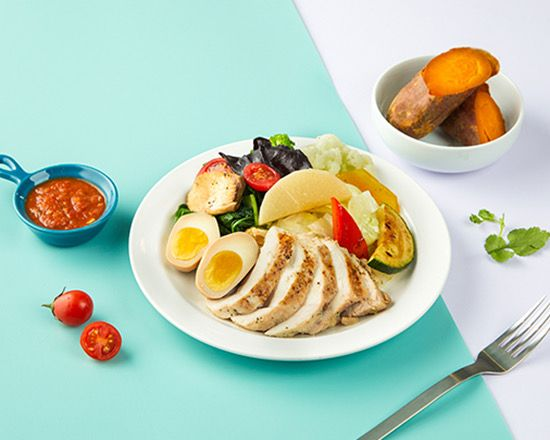
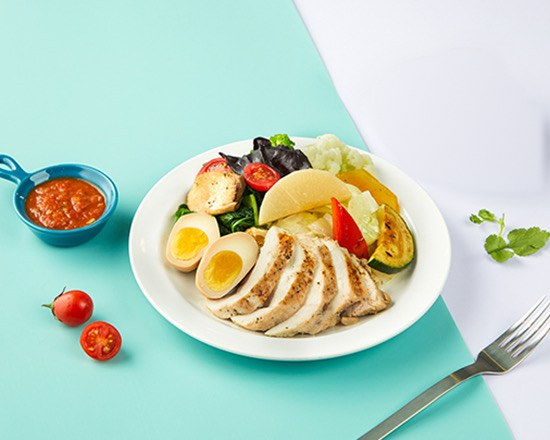
feat(web): 「拍照幫你算熱量」 headline; meal price floor $140
- Hero: 不用想吃什麼，拍照幫你算熱量; 外食 mock now shows a photo and the real 「來源：AI 照片估算」 label
- Dish captions confirmed by Jason (雞肉低碳); sweet potato bowl removed from its photo
- Three-day check is once per person (first subscription)
- SUBSCRIPTION_MEAL_LOW 170 → 140 (Jason): LINE estimates and the page share it; tests updated

Claude-Session: https://claude.ai/code/session_018VAJfck2b7PP6LxoD6zJJS

Changed region(s): [[0.68, 0.0886, 0.9891, 0.4136], [0.8655, 0.4727, 0.8964, 0.5023]]

diff --git a/plan_landing.py b/plan_landing.py
@@ -29,7 +29,7 @@ DISHES = (
     ("couscous.jpg", "北非小米沙拉（本週特餐）"),
     ("pork.jpg", "豬肉沙拉"),
     ("fish.jpg", "鱸魚食蔬"),
-    ("chicken.jpg", "雞肉食蔬"),
+    ("chicken.jpg", "雞肉低碳"),
 )
 
 
@@ -190,6 +190,10 @@ section { padding-block: 64px; }
 .act { text-align: right; font-size: 12px; color: var(--green); text-decoration: underline; }
 .ai-note { font-size: 10px; color: #6B5A2A; }
 
+.photo-msg { margin-left: auto; width: 62%; aspect-ratio: 4 / 3; border-radius: 16px; background: #D9C9A8;
+  display: grid; place-items: center; align-content: center; gap: 4px; color: var(--char); font-size: 13px; font-weight: 700; }
+.photo-msg span { font-size: 28px; }
+.est .src { font-size: 11px; color: #777777; }
 .est { background: var(--card); border-radius: 16px; padding: 12px 14px; font-size: 14px; color: var(--teal); max-width: 90%; display: grid; gap: 4px; }
 .est b { font-size: 16px; }
 .est .btn { margin-top: 6px; background: var(--green); color: var(--paper); border-radius: 10px; text-align: center; padding: 6px; font-weight: 700; }
@@ -295,10 +299,10 @@ _DASH_MOCK = """
 </div>"""
 
 _CHAT_MOCK = """
-<div class="chat" role="img" aria-label="外食記錄畫面示意：傳排骨飯，回覆估算的熱量與蛋白質">
-  <div class="bubble me">排骨飯</div>
-  <div class="est"><span>排骨飯（一般份量估算）</span><b>約 820 kcal・蛋白質 33 g</b>
-    <span>沒寫克數就用一般份量估，有寫克數會照你寫的算。</span><div class="btn">確認記錄</div></div>
+<div class="chat" role="img" aria-label="外食拍照記錄畫面示意：傳一張排骨飯照片，回覆估算的熱量與蛋白質">
+  <div class="photo-msg"><span>📷</span>排骨飯的照片</div>
+  <div class="est"><span>排骨飯</span><b>約 820 kcal・蛋白質 33 g</b>
+    <span class="src">來源：AI 照片估算</span><div class="btn">確認記錄</div></div>
 </div>"""
 
 
@@ -337,10 +341,10 @@ def render_page(*, status: dict, meal_low: int, meal_high: int, fee_tiers, perio
 <head>
 <meta charset="utf-8">
 <meta name="viewport" content="width=device-width, initial-scale=1">
-<title>一日樂食包月｜四週午晚餐幫你排好</title>
-<meta name="description" content="依你的目標排好四週午晚餐，每天在 LINE 點一下就記好，營養師看過你的三日飲食。">
-<meta property="og:title" content="一日樂食包月｜不用想吃什麼，也不用算熱量">
-<meta property="og:description" content="依你的目標排好四週午晚餐，每天在 LINE 點一下就記好。">
+<title>一日樂食包月｜拍照幫你算熱量</title>
+<meta name="description" content="包月便當依你的目標排好四週，外面吃的拍張照就幫你算熱量，營養師看過你的三日飲食。">
+<meta property="og:title" content="一日樂食包月｜不用想吃什麼，拍照幫你算熱量">
+<meta property="og:description" content="包月便當依你的目標排好四週，外面吃的拍張照就幫你算熱量。">
 <meta property="og:image" content="/plan/assets/salmon.jpg">
 <link rel="preconnect" href="https://fonts.googleapis.com">
 <link rel="preconnect" href="https://fonts.gstatic.com" crossorigin>
@@ -353,8 +357,8 @@ def render_page(*, status: dict, meal_low: int, meal_high: int, fee_tiers, perio
     <div class="brand">一日樂食 <small>Deli Express</small></div>
     <div class="hero-grid">
       <div>
-        <h1>不用想吃什麼，<br>也不用算熱量。</h1>
-        <p class="lede">依你的目標排好四週午晚餐，每天在 LINE 點一下就記好，營養師還會看過你三天的飲食。</p>
+        <h1>不用想吃什麼，<br>拍照幫你算熱量。</h1>
+        <p class="lede">包月便當依你的目標排好四週午晚餐；外面吃的拍張照，熱量和蛋白質幫你算好。</p>
         {_seat_block(status)}
         <a class="cta" href="{start}"><span class="line-badge">LINE</span>用 LINE 估價</a>
         <p class="cta-hint">會打開 LINE 並帶入「包月方案」，按送出就能開始估價。</p>
@@ -394,8 +398,8 @@ def render_page(*, status: dict, meal_low: int, meal_high: int, fee_tiers, perio
         <p><span class="tag">畫面示意</span></p>
       </div>
       <div class="scene">
-        <h3>外面吃的：傳一句話就好</h3>
-        <p>傳「排骨飯」或拍照，系統幫你估熱量和蛋白質，確認後一起算進今天。</p>
+        <h3>外面吃的：拍張照就好</h3>
+        <p>拍照或傳一句「排骨飯」，系統幫你估熱量和蛋白質，你按確認才會記錄。</p>
         <div class="phone">{_CHAT_MOCK}</div>
         <p><span class="tag">畫面示意</span></p>
       </div>
@@ -406,10 +410,10 @@ def render_page(*, status: dict, meal_low: int, meal_high: int, fee_tiers, perio
 <section class="rd" style="background:var(--butter)">
   <div class="wrap">
     <h2>AI 先整理，營養師看過才給你</h2>
-    <p class="lead">包月包含一次三日飲食健檢。報告由合作營養師逐條看過、需要時修改，確認後才會送到你的 LINE。</p>
+    <p class="lead">第一次訂包月，包含一次三日飲食健檢。報告由合作營養師逐條看過、需要時修改，確認後才會送到你的 LINE。</p>
     <div class="rd-grid">
       <ol class="timeline">
-        <li><span class="n">1</span><div><h3>照常吃三天</h3><p>包月餐點「吃了」，外食傳給我們，不用多做什麼。</p></div></li>
+        <li><span class="n">1</span><div><h3>照常吃三天</h3><p>包月餐點「吃了」，外食拍照傳上來，不用多做什麼。</p></div></li>
         <li><span class="n">2</span><div><h3>AI 整理成報告草稿</h3><p>三天吃了多少、蛋白質夠不夠、哪一餐最容易失衡。</p></div></li>
         <li class="rd"><span class="n">3</span><div><h3>營養師逐條看過</h3><p>不對的地方修改，確認沒問題才核准。</p></div></li>
         <li><span class="n">4</span><div><h3>你在 LINE 收到建議</h3><p>接下來 7 天可以怎麼調整，具體到吃什麼。</p></div></li>
@@ -481,7 +485,7 @@ def render_page(*, status: dict, meal_low: int, meal_high: int, fee_tiers, perio
       <details class="q"><summary>什麼時候開始？</summary><p>每期四週，從下週一開始。週日晚上 8 點以後報名，會排到再下一個週一。</p></details>
       <details class="q"><summary>什麼時候要付款？</summary><p>開始前的週日晚上 8 點以前完成匯款。首批名額逾時沒付款，會釋出給下一位。</p></details>
       <details class="q"><summary>某一餐沒吃怎麼辦？</summary><p>在今日總覽點「沒吃」就好，當天晚上 11:59 前都能改。</p></details>
-      <details class="q"><summary>營養師健檢要另外付錢嗎？</summary><p>包月包含一次三日飲食健檢，不用另外付費。之後想請營養師持續追蹤，才需要加購。</p></details>
+      <details class="q"><summary>營養師健檢要另外付錢嗎？</summary><p>第一次訂包月時包含一次三日飲食健檢，不用另外付費。之後想請營養師持續追蹤，才需要加購。</p></details>
       <details class="q"><summary>我有不吃的食物</summary><p>填包月資料時寫上，排餐會避開。</p></details>
       <details class="q"><summary>首批 9 折怎麼算？</summary><p>只打餐費，運費不折；適用第一期，續約恢復一般價格。限第一次訂包月的朋友。</p></details>
     </div>

diff --git a/tests/test_subscription_quote_non_vip.py b/tests/test_subscription_quote_non_vip.py
@@ -104,7 +104,7 @@ def test_non_vip_owned_self_pickup_sequence_renders_real_estimate_flex(monkeypat
     assert "包月粗估結果" in rendered
     assert "自取" in rendered
     assert "外送費：$0" in rendered
-    assert "本期合計：約 $4,080～$5,280" in rendered
+    assert "本期合計：約 $3,360～$5,280" in rendered
     assert "可以，建立包月資料" in rendered
     payload = replies[-1].as_json_dict()
     form_uri = next(
@@ -265,7 +265,7 @@ def test_registered_known_delivery_quote_keeps_checkout_total_and_cta(
     assert "約 11:30–12:00 送達" in rendered
     assert "晚鳥" not in rendered
     assert "外送 12 趟，外送費小計 $420" in rendered
-    assert "本期合計：約 $4,500～$5,700" in rendered
+    assert "本期合計：約 $3,780～$5,700" in rendered
     assert "折抵" not in rendered  # 四週外送費折抵已取消（順風車「再折」文案除外）
     assert "可以，建立包月資料" in rendered
     payload = replies[-1].as_json_dict()
@@ -323,7 +323,7 @@ def test_registered_delivery_quote_with_unknown_maps_result_is_not_checkout_read
     assert map_calls == [address]
     assert len(replies) == 4
     rendered = json.dumps(replies[-1].as_json_dict(), ensure_ascii=False)
-    assert "餐費小計：$4,080～$5,280" in rendered
+    assert "餐費小計：$3,360～$5,280" in rendered
     assert "外送費：待客服確認" in rendered
     assert "外送費：$0" not in rendered
     assert "本期合計" not in rendered
@@ -389,7 +389,7 @@ def test_registered_vip_raw_order_with_unknown_maps_result_does_not_create_order
     assert len(replies) == 1
     reply_text = replies[0].text
     assert "外送費需客服確認" in reply_text
-    assert "餐費粗估：$4,080～$5,280" in reply_text
+    assert "餐費粗估：$3,360～$5,280" in reply_text
     assert "外送費粗估：$0" not in reply_text
     assert "本期粗估合計" not in reply_text
     assert "已收到您的包月訂單" not in reply_text
@@ -432,7 +432,7 @@ def test_registered_vip_raw_estimate_with_unknown_maps_result_is_manual_only(mon
     assert created == []
     assert len(replies) == 1
     assert "外送費需客服確認" in replies[0]
-    assert "餐費粗估：$4,080～$5,280" in replies[0]
+    assert "餐費粗估：$3,360～$5,280" in replies[0]
     assert "$0" not in replies[0]
     assert "本期粗估合計" not in replies[0]
     assert "建立包月資料" not in replies[0]
@@ -485,7 +485,7 @@ def test_registered_vip_raw_order_with_known_delivery_still_creates_order(monkey
     assert "已收到您的包月訂單 #999" in replies[0]
     assert "運費 $35／趟" in replies[0]
     assert "外送 24 趟，外送費小計 $840" in replies[0]
-    assert "本期粗估合計：$4,920～$6,120" in replies[0]
+    assert "本期粗估合計：$4,200～$6,120" in replies[0]
 
 
 @pytest.mark.parametrize("delivery_available", [None, False], ids=["unknown", "out-of-range"])

diff --git a/tests/test_late_bird_delivery_pricing.py b/tests/test_late_bird_delivery_pricing.py
@@ -114,12 +114,12 @@ def test_five_day_2_1_km_quote_charges_late_bird_without_discount(monkeypatch):
     assert "🐦 晚鳥半價 → $25／趟" in text
     assert "🕐 每天 13:00–14:00 送達（不指定時間）" in text
     assert "外送 20 趟，外送費小計 $500" in text
-    assert "本期粗估合計：$7,300～$9,300" in text
+    assert "本期粗估合計：$6,100～$9,300" in text
 
     flex = json.dumps(server.build_subscription_estimate_flex("U_LB_5D", est).as_json_dict(), ensure_ascii=False)
     assert "🐦 晚鳥半價 → $25／趟" in flex
     assert "外送 20 趟，外送費小計 $500" in flex
-    assert "本期合計：約 $7,300～$9,300" in flex
+    assert "本期合計：約 $6,100～$9,300" in flex
 
 
 def test_persisted_quote_row_stores_charged_late_bird_fee(monkeypatch, tmp_path):

diff --git a/tests/test_plan_landing.py b/tests/test_plan_landing.py
@@ -31,7 +31,7 @@ def test_page_shows_live_seats_and_line_cta(client, monkeypatch):
         assert "還剩 <b>13</b> 名" in r.text
         assert r.text.count('class="dot taken"') == 2
         assert "https://line.me/R/oaMessage/%40a25080337/?%E5%8C%85%E6%9C%88%E6%96%B9%E6%A1%88" in r.text
-        assert "$170" in r.text and "$220" in r.text
+        assert "$140" in r.text and "$220" in r.text
 
 
 def test_page_hides_seats_when_trial_off(client, monkeypatch):

diff --git a/server.py b/server.py
@@ -11271,7 +11271,7 @@ def parse_subscription_order_message(msg: str):
 
 
 SUBSCRIPTION_PERIOD_WEEKS = 4
-SUBSCRIPTION_MEAL_LOW = 170
+SUBSCRIPTION_MEAL_LOW = 140  # 包月一餐最低價（Jason 2026-10-23）
 SUBSCRIPTION_MEAL_HIGH = 220
 
 # 外送距離分級：(距離上限 meters, 每趟原運費, delivery_zone)；超過最後一級 = 不提供外送。

diff --git a/CLAUDE.md b/CLAUDE.md
@@ -49,6 +49,7 @@ Jason（老闆）用中文溝通，回覆一律用中文、口語、先講結論
 - **包月首批試跑**（`first_batch_trial.py`，env `FIRST_BATCH_TRIAL_ENABLED`、`FIRST_BATCH_TRIAL_LIMIT` 預設 15）：只限從沒開通過的新客，以人計名額；送出表單建立訂單就佔位，拒絕／逾期釋放；首期**只有餐費** 9 折（捨去），運費不折，續約原價。付款期限＝開始日前一天（週日）20:00：當天 12:00 提醒已核准未付款者，20:00 未開通就標 `expired` 釋放；未核准的單不自動取消，只通知管理員。逾期單客人若其實已付款，直接 `#開通訂單`。管理員看名額：`#首批名額`。
 - **包月開始日**：下一個週一；週日 20:00 後送出排到再下一個週一。
 - **包月介紹頁**（`plan_landing.py`）：`/` 與 `/plan` 一頁式介紹，所有按鈕導回 LINE（`@a25080337`，帶入「包月方案」）；首批名額即時讀 DB，`/api/first-batch/seats` 只回數字。照片在 `static/plan/`（白名單）。預計綁 Cloudflare 網域 deliexpress-ai.com。
+- **包月一餐價格區間** $140–220（`SUBSCRIPTION_MEAL_LOW/HIGH`，估價與介紹頁共用）。三日健檢**每人一次**（第一次訂包月）。
 - 非 VIP 問營養問題不回應（只有包月方案介紹、我的方案、找客服、估價、開通）。
 
 ## 待辦
